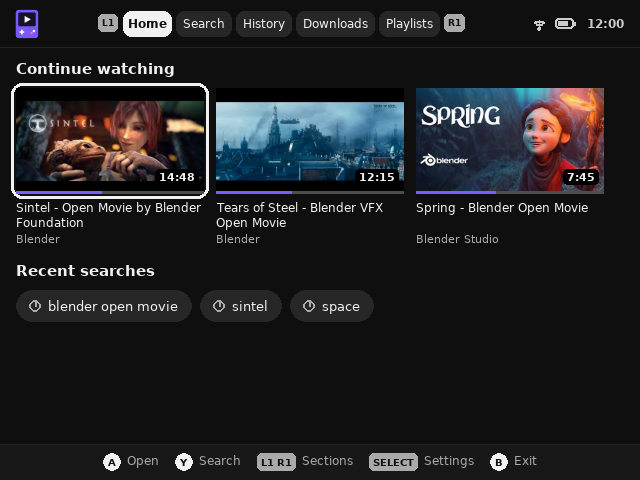
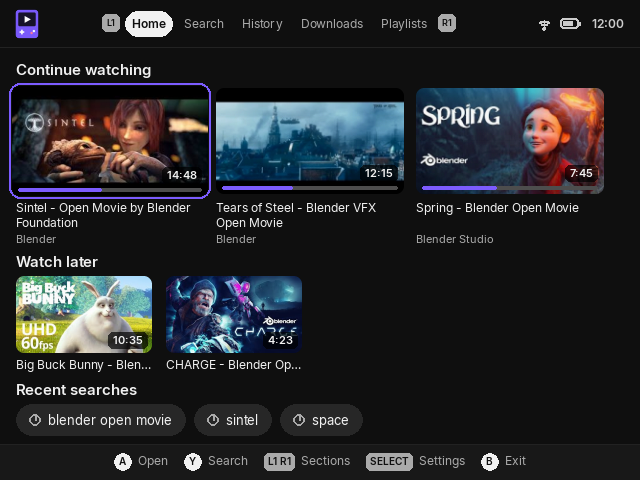
Remove dead code and refresh the Ports carousel screenshot
Drop the unused json import (services.py) and the unused DARK colour and
Ass.poly (player.py), all left over from 1.0. The carousel picture still showed
the 1.0 design; tools/screenshots.py now regenerates it from the English Home
screen whenever it writes the docs set.

diff --git a/tools/screenshots.py b/tools/screenshots.py
@@ -4,7 +4,10 @@ os.environ["SDL_VIDEODRIVER"] = "dummy"
 os.environ["SDL_AUDIODRIVER"] = "dummy"
 ROOT = os.path.dirname(os.path.dirname(os.path.abspath(__file__)))
 FONTS = sys.argv[1] if len(sys.argv) > 1 else ""  # folder with DejaVu, used only as a fallback
-OUT = sys.argv[2] if len(sys.argv) > 2 else os.path.join(ROOT, "docs", "screenshots")
+DOCS = os.path.join(ROOT, "docs", "screenshots")
+OUT = sys.argv[2] if len(sys.argv) > 2 else DOCS
+# the Ports carousel picture is the English Home screen; refreshed only together with the docs set
+CAROUSEL = os.path.join(ROOT, "userdata", "roms", "ports", "images", "pockettube-screenshot.png")
 os.makedirs(OUT, exist_ok=True)
 work = tempfile.mkdtemp()
 app_dir = os.path.join(work, "pockettube")
@@ -81,6 +84,8 @@ def shot(lang, name):
     app.anim_now = set()  # start animations from rest so each screenshot shows the settled state
     app.draw()
     pg.image.save(app.screen, os.path.join(OUT, f"{lang}-{name}.png"))
+    if (lang, name) == ("en", "home") and os.path.abspath(OUT) == os.path.abspath(DOCS):
+        pg.image.save(app.screen, CAROUSEL)
 
 
 for lang in ["en", "ru", "tr"]:

diff --git a/userdata/system/pockettube/player.py b/userdata/system/pockettube/player.py
@@ -14,7 +14,7 @@ BLANK = "/sys/class/graphics/fb0/blank"
 DARK_AFTER = 8
 W, H = 640, 480
 
-WHITE, GREY, DARK, RED, BLACK = "FFFFFF", "AAAAAA", "272727", "3C21E6", "000000"
+WHITE, GREY, RED, BLACK = "FFFFFF", "AAAAAA", "3C21E6", "000000"
 ACCENT = "FF5C7C"
 
 
@@ -51,10 +51,6 @@ class Ass:
     def text(self, x, y, s, size=16, color=WHITE, an=7, bold=False):
         b = "\\b1" if bold else "\\b0"
         self.parts.append(f"{{\\an{an}\\pos({x},{y})\\fnDejaVu Sans\\fs{size}{b}\\bord0\\shad0\\1c&H{color}&\\1a&H00&}}{esc(s)}")
-
-    def poly(self, points, color):
-        path = "m " + " l ".join(f"{int(px)} {int(py)}" for px, py in points)
-        self.parts.append(f"{{\\an7\\pos(0,0)\\bord0\\shad0\\1c&H{color}&\\p1}}{path}{{\\p0}}")
 
     def data(self):
         return "\n".join(self.parts)

diff --git a/userdata/system/pockettube/services.py b/userdata/system/pockettube/services.py
@@ -1,4 +1,4 @@
-import glob, json, os, queue, shutil, socket, subprocess, threading, time, urllib.request
+import glob, os, queue, shutil, socket, subprocess, threading, time, urllib.request
 
 import pygame
 
